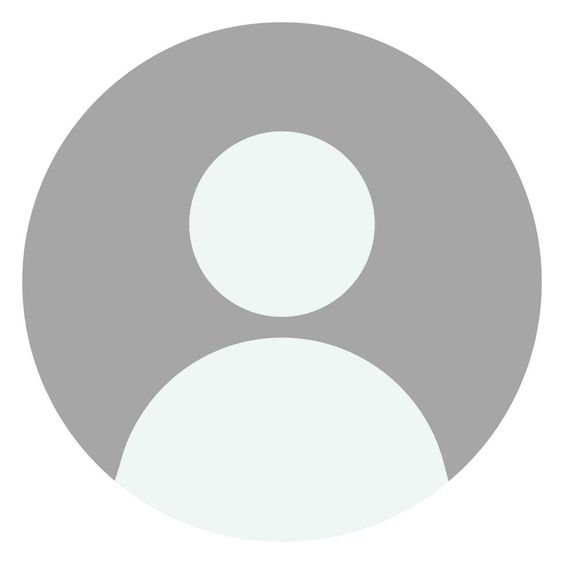
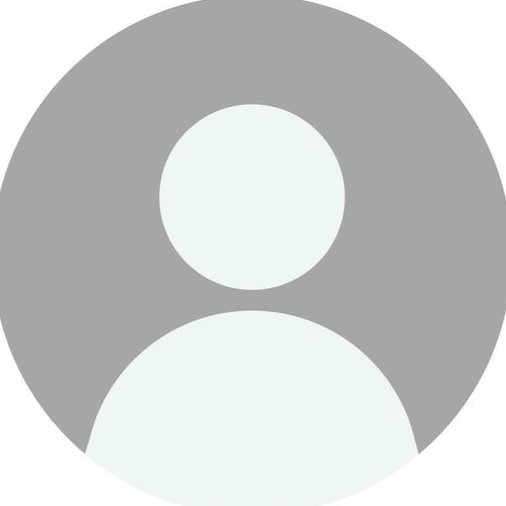
Done Added image profile

diff --git a/lib/features/auth/presentation/views/widgets/profile/section_your_picture.dart b/lib/features/auth/presentation/views/widgets/profile/section_your_picture.dart
@@ -1,10 +1,12 @@
 import 'package:cached_network_image/cached_network_image.dart';
 import 'package:flutter/material.dart';
 import 'package:flutter_bloc/flutter_bloc.dart';
+import 'package:selaty/core/constants.dart';
 import 'package:selaty/core/utils/colors.dart';
 import 'package:selaty/core/utils/resposive.dart';
 import 'package:selaty/core/utils/text_styles.dart';
 import 'package:selaty/features/auth/presentation/view_model/view_user_profile_cubit/view_user_profile_cubit.dart';
+import 'package:skeletonizer/skeletonizer.dart';
 
 class SectionYourPicture extends StatelessWidget {
   const SectionYourPicture({
@@ -59,9 +61,9 @@ class SectionYourPicture extends StatelessWidget {
                             ? state.userProfileInfo.name!
                             : "",
                         style:
-                            StylesManager.textStyle_30_bold(context).copyWith(
+                            StylesManager.textStyle_40_Red_AR(context).copyWith(
                           color: primaryWhite,
-                          fontWeight: FontWeight.bold,
+                          fontWeight: FontWeight.w800,
                         ),
                       ),
                       SizedBox(height: context.height * 0.008),
@@ -90,21 +92,31 @@ class SectionYourPicture extends StatelessWidget {
                   shape: BoxShape.circle,
                   color: Color.fromARGB(255, 238, 238, 238),
                 ),
-
-                // https://ui-avatars.com/api/?name=M+M&color=7F9CF5&background=EBF4FF
                 child: ClipOval(
                   child: CachedNetworkImage(
-                    imageUrl:
-                        "https://i.pinimg.com/564x/cd/4b/d9/cd4bd9b0ea2807611ba3a67c331bff0b.jpg",
-                    placeholder: (context, url) => Center(
-                      child: CircularProgressIndicator(),
-                    ),
+                    fit: BoxFit.cover,
+                    width: .28 * context.width,
+                    height: .28 * context.width,
+                    imageUrl: state is ViewUserProfileDone
+                        ? state.userProfileInfo.profilePhotoUrl!
+                        : "",
+                    placeholder: (context, url) {
+                      Future.delayed(Duration(seconds: 6));
+                      return Skeletonizer(
+                        effect: ShimmerEffect(
+                          baseColor: Colors.grey.shade400,
+                          highlightColor: Colors.grey.shade200,
+                          duration: Duration(seconds: 1),
+                        ),
+                        enabled: true,
+                        child: Image.asset(
+                          kAvatarImageUrl,
+                        ),
+                      );
+                    },
                     errorWidget: (context, url, error) {
                       return Image.asset(
-                        'assets/images/profile.png',
-                        width: .28 * context.width,
-                        height: .28 * context.width,
-                        fit: BoxFit.cover,
+                        kAvatarImageUrl,
                       );
                     },
                   ),

diff --git a/lib/features/home/presentation/views/widgets/custom_appbar.dart b/lib/features/home/presentation/views/widgets/custom_appbar.dart
@@ -1,14 +1,16 @@
 import 'package:cached_network_image/cached_network_image.dart';
 import 'package:flutter/cupertino.dart';
 import 'package:flutter/material.dart';
+import 'package:selaty/core/constants.dart';
 import 'package:selaty/core/utils/colors.dart';
 import 'package:selaty/core/utils/functions.dart';
 import 'package:selaty/core/utils/resposive.dart';
 import 'package:selaty/core/utils/text_styles.dart';
+import 'package:skeletonizer/skeletonizer.dart';
 
 class CustomAppbarHome {
   static List<Widget> appBarActions(BuildContext context, Function onTap,
-      {required name, required address}) {
+      {required name, required address, required image}) {
     return [
       SizedBox(width: context.width * 0.02),
       GestureDetector(
@@ -16,22 +18,29 @@ class CustomAppbarHome {
           hideKeybourd();
           onTap();
         },
-        child: SizedBox(
-          width: context.width * 0.08,
-          child: ClipOval(
-            child: CachedNetworkImage(
-              imageUrl:
-                  "https://i.pinimg.com/564x/cd/4b/d9/cd4bd9b0ea2807611ba3a67c331bff0b.jpg",
-              placeholder: (context, url) => Center(
-                child: CircularProgressIndicator(),
-              ),
-              errorWidget: (context, url, error) {
-                return Image.asset(
-                  'assets/images/profile.png',
-                  fit: BoxFit.cover,
-                );
-              },
-            ),
+        child: ClipOval(
+          child: CachedNetworkImage(
+            imageUrl: image,
+            fit: BoxFit.cover,
+            width: context.width * 0.11,
+            placeholder: (context, url) {
+              return Skeletonizer(
+                enabled: true,
+                effect: ShimmerEffect(
+                  baseColor: Colors.grey.shade400,
+                  highlightColor: Colors.grey.shade200,
+                  duration: Duration(seconds: 1),
+                ),
+                child: Image.asset(
+                  kAvatarImageUrl,
+                ),
+              );
+            },
+            errorWidget: (context, url, error) {
+              return Image.asset(
+                kAvatarImageUrl,
+              );
+            },
           ),
         ),
       ),
@@ -42,9 +51,9 @@ class CustomAppbarHome {
         children: [
           Text(
             "مرحباً $name 👋",
-            style: StylesManager.textStyle_10_Medium(context).copyWith(
+            style: StylesManager.textStyle_14_bold(context).copyWith(
               color: primaryBlack,
-              fontWeight: FontWeight.w800,
+              fontWeight: FontWeight.w900,
             ),
           ),
           Text(

diff --git a/lib/features/home/presentation/views/screens/home_screen.dart b/lib/features/home/presentation/views/screens/home_screen.dart
@@ -34,18 +34,18 @@ class HomeScreen extends StatelessWidget {
                   flexibleSpace: Container(
                     color: Color.fromARGB(255, 238, 238, 238),
                   ),
-                  actions: CustomAppbarHome.appBarActions(
-                    context,
-                    () {
-                      tabCubit.updateTabIndex(0);
-                    },
-                    name: state is ViewUserProfileDone
-                        ? state.userProfileInfo.name!
-                        : '',
-                    address: state is ViewUserProfileDone
-                        ? state.userProfileInfo.address!
-                        : '',
-                  ),
+                  actions: CustomAppbarHome.appBarActions(context, () {
+                    tabCubit.updateTabIndex(0);
+                  },
+                      name: state is ViewUserProfileDone
+                          ? state.userProfileInfo.name!
+                          : '',
+                      address: state is ViewUserProfileDone
+                          ? state.userProfileInfo.address!
+                          : '',
+                      image: state is ViewUserProfileDone
+                          ? state.userProfileInfo.profilePhotoUrl!
+                          : ''),
                   automaticallyImplyLeading: false,
                 );
               },

diff --git a/lib/features/auth/presentation/views/widgets/register/section_text_field_regeister_screen.dart b/lib/features/auth/presentation/views/widgets/register/section_text_field_regeister_screen.dart
@@ -1,4 +1,5 @@
 import 'package:flutter/cupertino.dart';
+import 'package:selaty/core/constants.dart';
 import 'package:selaty/core/utils/Strings_app.dart';
 import 'package:selaty/core/utils/colors.dart';
 import 'package:selaty/core/utils/resposive.dart';
@@ -69,7 +70,7 @@ class _SectionTextFeildRegisterState extends State<SectionTextFeildRegister> {
               password: password.text.trim(),
               cPassword: password.text.trim(),
               address: address.text.trim(),
-              profilePhotoPath: '',
+              profilePhotoPath: kMegoImageUrl,
             ),
           ),
         ],

diff --git a/lib/features/auth/data/repos/auth_repos_impl.dart b/lib/features/auth/data/repos/auth_repos_impl.dart
@@ -21,10 +21,6 @@ class AuthReposImpl implements AuthRepo {
     return data.fold((e) {
       return left(e);
     }, (data) {
-      SharedPreferencesManager.setData(
-        key: imageKey,
-        value: "$kBaseUrlForImage${data.profilePhotoPath}",
-      );
       return right(data);
     });
   }
@@ -90,6 +86,10 @@ class AuthReposImpl implements AuthRepo {
     SharedPreferencesManager.setData(
       key: emailKey,
       value: data.email,
+    );
+    SharedPreferencesManager.setData(
+      key: imageKey,
+      value: "$kBaseUrlForImage${data.profilePhotoPath}",
     );
   }
 }

diff --git a/lib/features/auth/presentation/views/widgets/register/build_register_cubit_widget.dart b/lib/features/auth/presentation/views/widgets/register/build_register_cubit_widget.dart
@@ -1,5 +1,3 @@
-import 'dart:developer';
-
 import 'package:flutter/material.dart';
 import 'package:flutter_bloc/flutter_bloc.dart';
 import 'package:go_router/go_router.dart';
@@ -60,10 +58,8 @@ class BuildRegisterCubitWidget extends StatelessWidget {
                         address: registerRequest.address,
                         profilePhotoPath: registerRequest.profilePhotoPath),
                   );
-              log(registerRequest.name);
             }
             hideKeybourd();
-            log(registerRequest.name);
           },
         );
       },

diff --git a/lib/core/constants.dart b/lib/core/constants.dart
@@ -15,6 +15,9 @@ const String kSuccessBagDelivery = "assets/images/success_bag_icon.png";
 
 const String kBaseUrlForImage = "https://master-market.masool.net/uploads/";
 
+const String kMegoImageUrl = "assets/images/mego2.jpg";
+const String kAvatarImageUrl = "assets/images/avatar.jpg";
+
 const String nameKey = 'nameKey';
 const String phoneKey = 'phoneKey';
 const String imageKey = 'imageKey';
